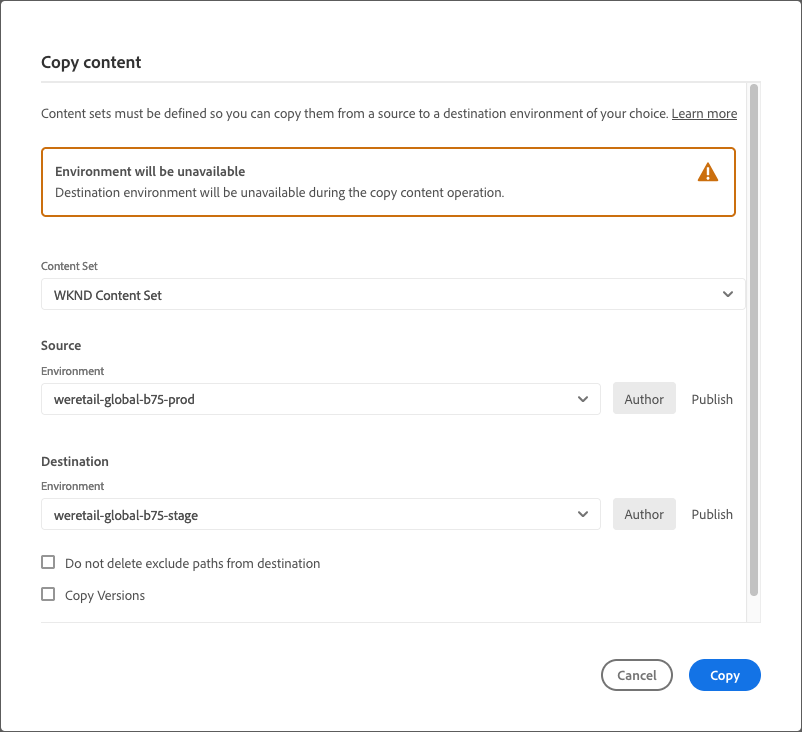
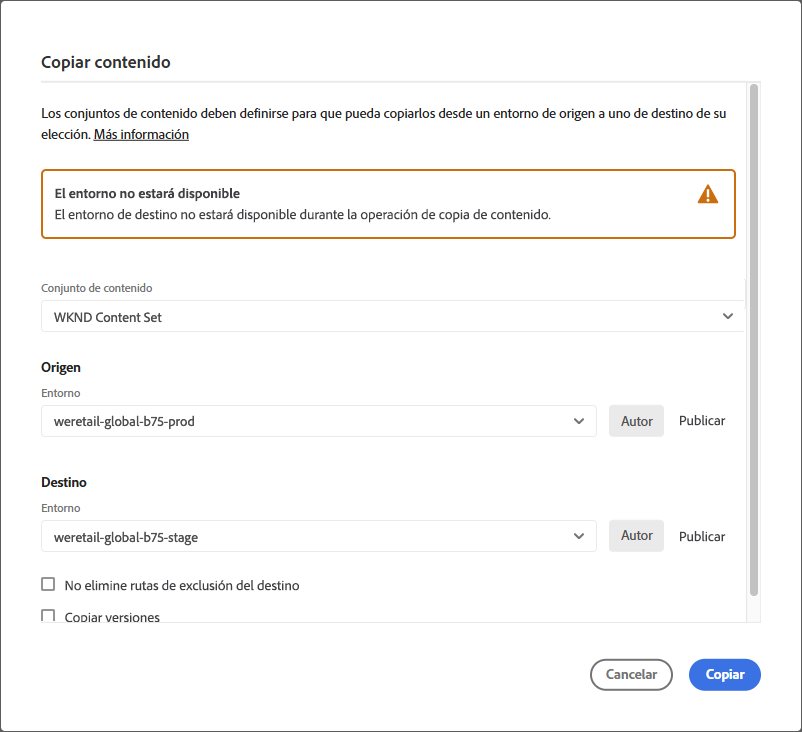
Updated by task 'AUTO_HANDOFF_1733931505936'  Changes for core/source commit https://git.corp.adobe.com/AdobeDocs/experience-manager-cloud-manager.en/commit/d0a95996dfe489ba2ff0a5354223a5355187be72

diff --git a/help/using/custom-code-quality-rules.md b/help/using/custom-code-quality-rules.md
@@ -3,9 +3,9 @@ title: Reglas de calidad del código personalizadas
 description: Descubra los detalles específicos de las reglas de calidad de código personalizadas ejecutadas por Cloud Manager durante las pruebas de calidad del código. Estas reglas se basan en las prácticas recomendadas de AEM Engineering.
 exl-id: 7d118225-5826-434e-8869-01ee186e0754
 source-git-commit: 8811ed130b2c7a37a0c811c308b57acf0872e9c8
-workflow-type: tm+mt
+workflow-type: ht
 source-wordcount: '3514'
-ht-degree: 99%
+ht-degree: 100%
 
 ---
 
@@ -879,7 +879,7 @@ AEM Cloud Service prohíbe la creación de definiciones de indexación que conte
 * **Gravedad**: Menor
 * **Desde**: Versión 2024.12.0
 
-AEM Cloud Service prohíbe la creación de definiciones de indización que contengan propiedades de pajar.
+AEM Cloud Service prohíbe la creación de definiciones de indexación que contengan propiedades haystack.
 
 ## Herramienta de optimización de Dispatcher {#dispatcher-optimization-tool-rules}
 

diff --git a/help/release-notes/current.md b/help/release-notes/current.md
@@ -4,7 +4,7 @@ description: Obtenga información sobre la versión de Cloud Manager 2024.11.0 e
 feature: Release Information
 exl-id: 811567af-66c9-4c1f-ae9e-60603b70ef80
 source-git-commit: e266a4192e2a897f142a6c83ae5766483946320d
-workflow-type: tm+mt
+workflow-type: ht
 source-wordcount: '312'
 ht-degree: 100%
 
@@ -26,7 +26,7 @@ Obtenga información sobre la versión de [!UICONTROL Cloud Manager] 2024.12.0 e
 
 La fecha de lanzamiento de la versión 2024.12.0 de [!UICONTROL Cloud Manager] es el 5 de diciembre de 2024. 
 
-La próxima versión planificada es el viernes, 23 de enero de 2025.
+La próxima versión planificada es el 23 de enero de 2025.
 
 <!-- ## What's new {#what-is-new} -->
 

diff --git a/help/release-notes/2024/2024-11-0.md b/help/release-notes/2024/2024-11-0.md
@@ -4,7 +4,7 @@ description: Obtenga más información sobre la versión de Cloud Manager 2024.1
 feature: Release Information
 exl-id: e5b5f748-2dd8-4195-b0c8-379a9ad7bf90
 source-git-commit: 77f377e2a2f2942fdc612edf738405db902c4391
-workflow-type: tm+mt
+workflow-type: ht
 source-wordcount: '452'
 ht-degree: 100%
 

diff --git a/help/main-toc/TOC.md b/help/main-toc/TOC.md
@@ -8,9 +8,9 @@ feature-set: Experience Manager Cloud Manager, Experience Manager
 feature: Cloud Manager
 role: Admin
 source-git-commit: 2c96feb62a4db2424430c9c410563a7f61320fd2
-workflow-type: tm+mt
+workflow-type: ht
 source-wordcount: '349'
-ht-degree: 98%
+ht-degree: 100%
 
 ---
 
